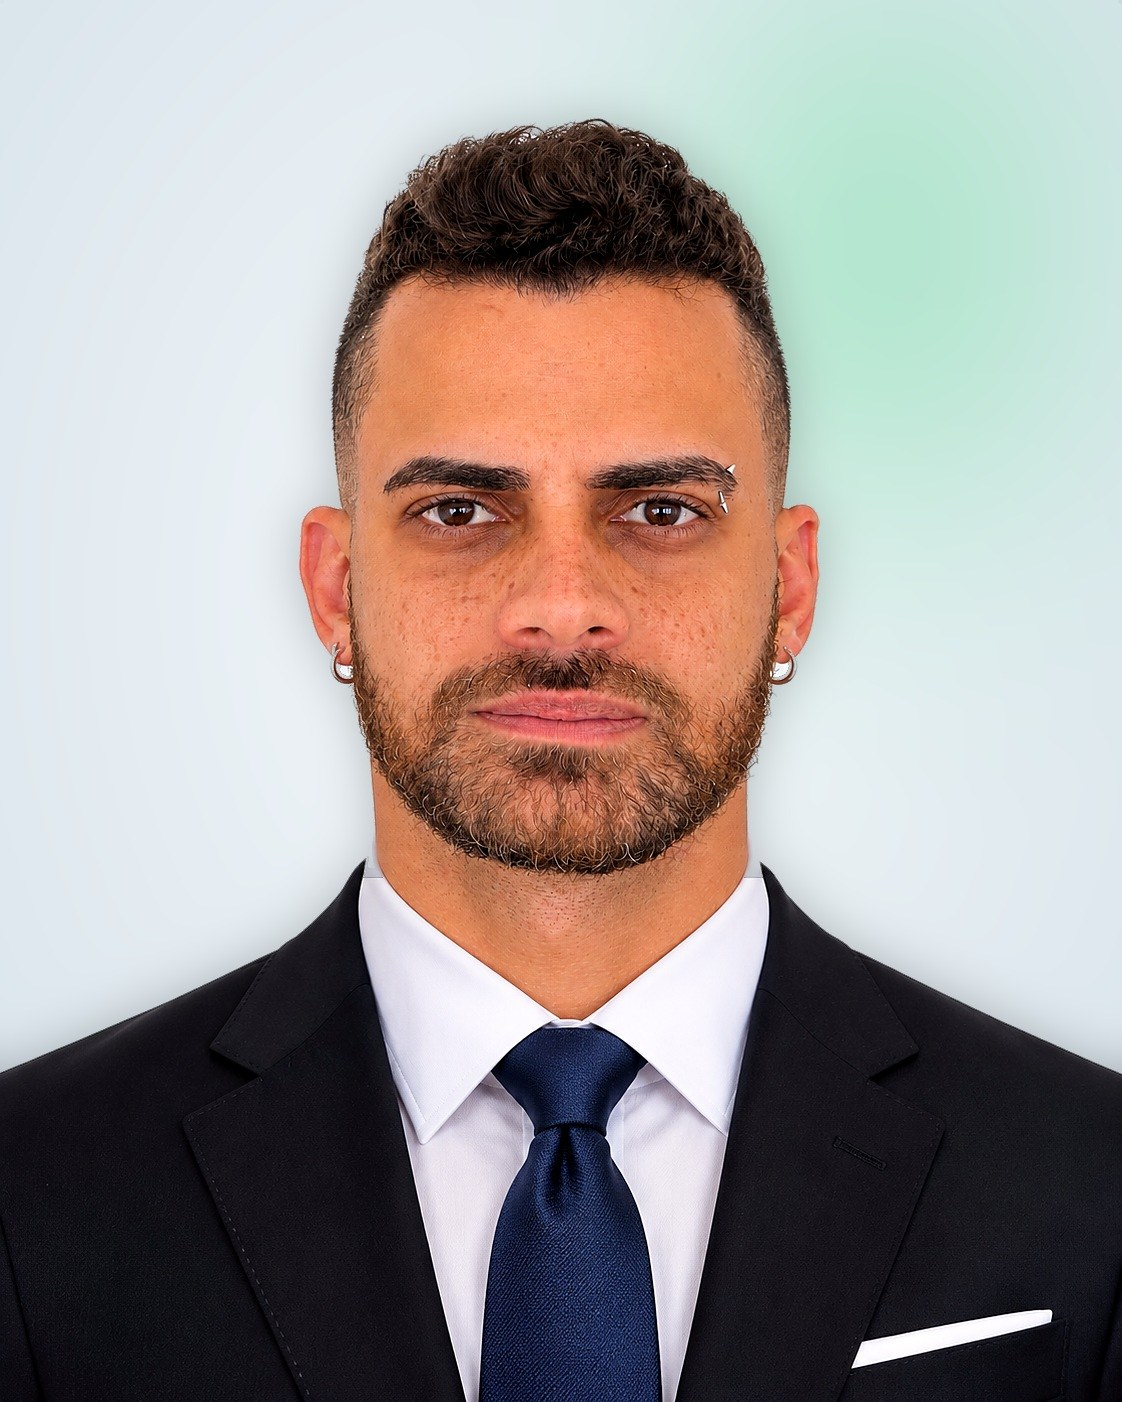
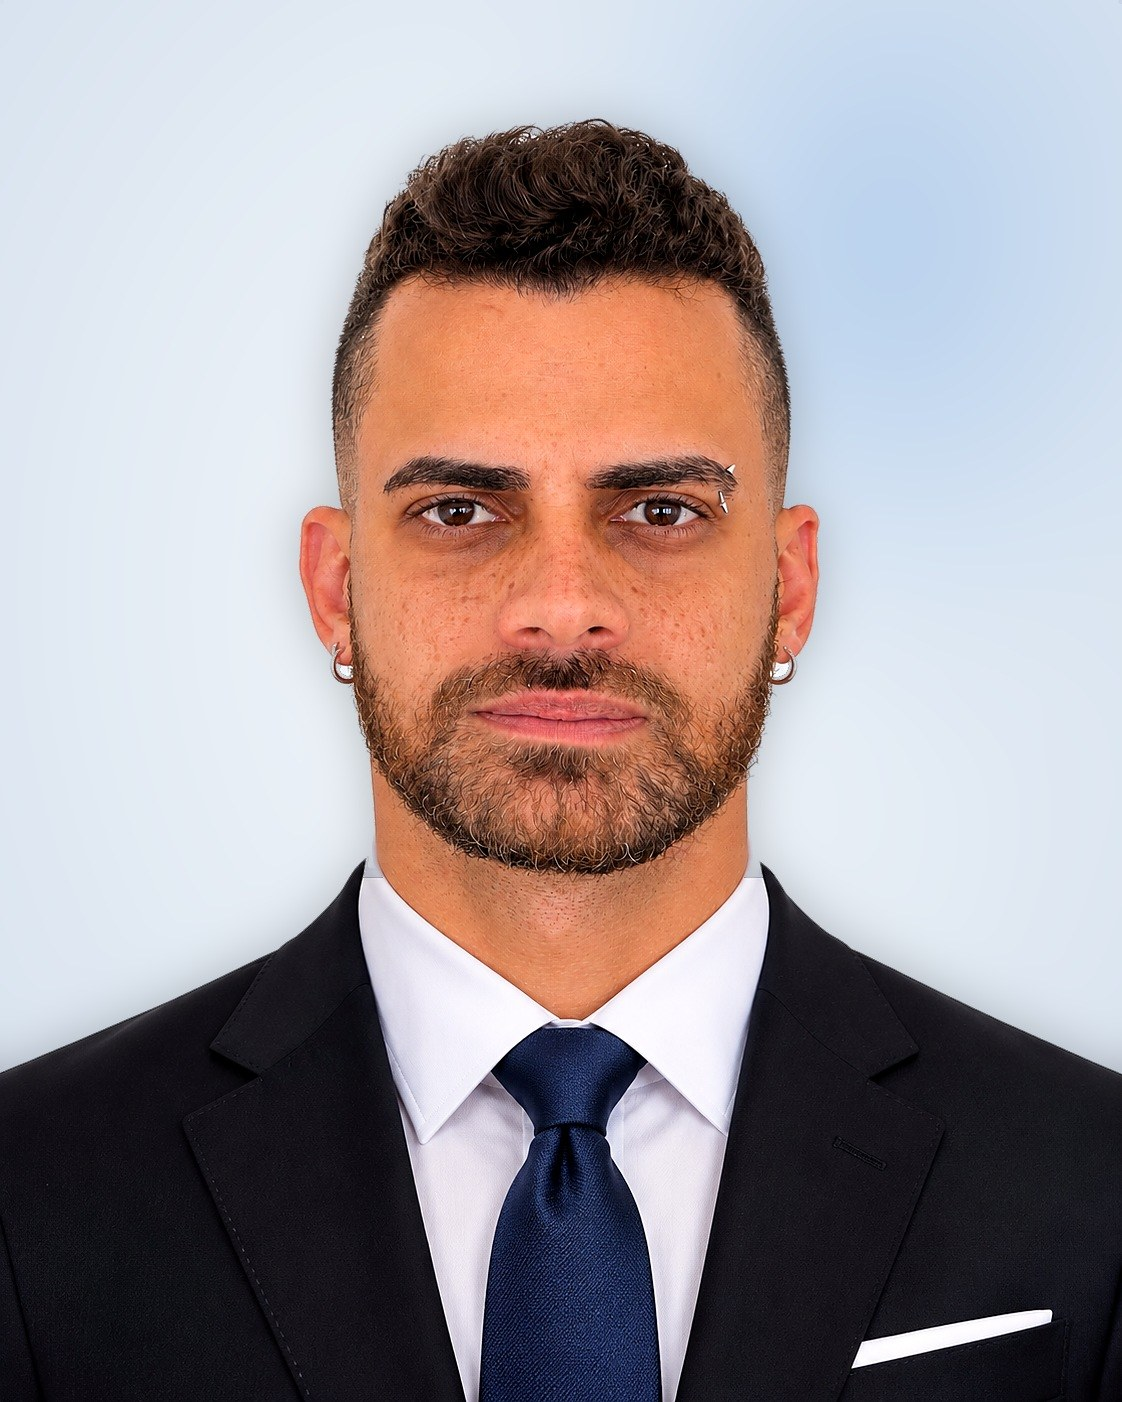
Foto do Victor: fundo gelo com brilho azul (tema azul) (#51)
Claude-Session: https://claude.ai/code/session_01W4EMxrHJE2KvoUZMjh5ybf

Changed region(s): [[0.6551, 0.0613, 0.9046, 0.3067]]

diff --git a/src/app/page.tsx b/src/app/page.tsx
@@ -413,7 +413,7 @@ export default function Home() {
                 <text><textPath href="#circ">GESTÃO NA PRÁTICA ✦ TECNOLOGIA COM PROPÓSITO ✦ </textPath></text>
               </svg>
               {/* eslint-disable-next-line @next/next/no-img-element */}
-              <img src="/sobre/victor-mafra.jpg?v=2" alt="Victor Mafra" width={720} height={720} className="about__foto" loading="lazy" />
+              <img src="/sobre/victor-mafra.jpg?v=3" alt="Victor Mafra" width={720} height={720} className="about__foto" loading="lazy" />
             </div>
             <div>
               <Eyebrow>Quem está por trás</Eyebrow>
